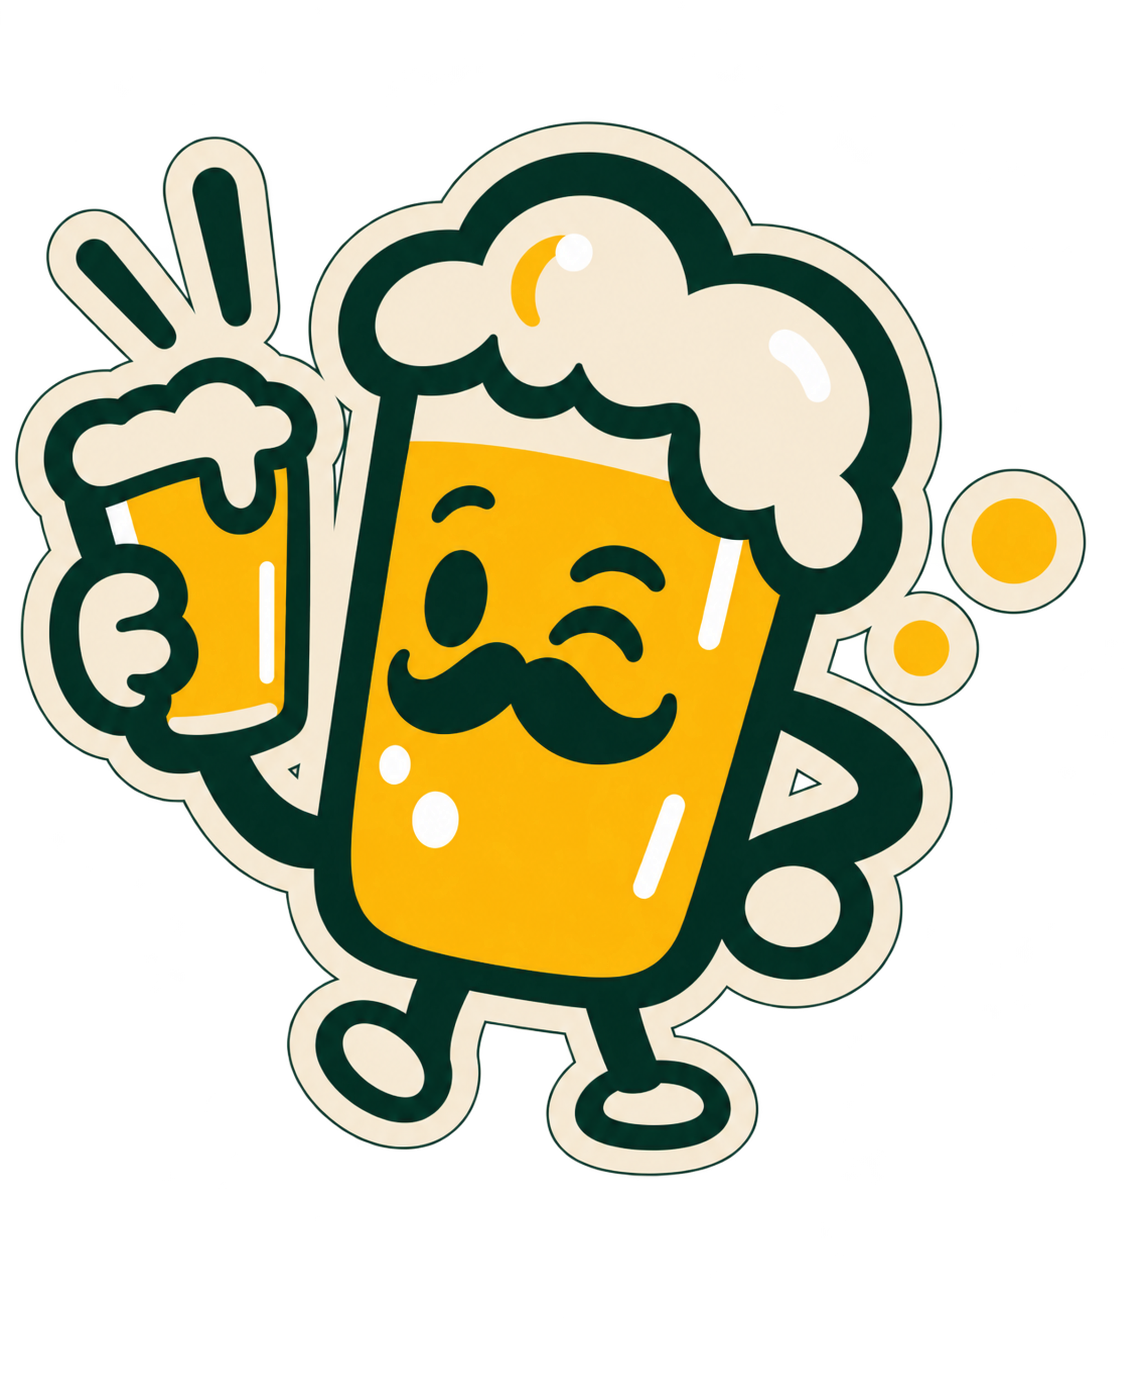
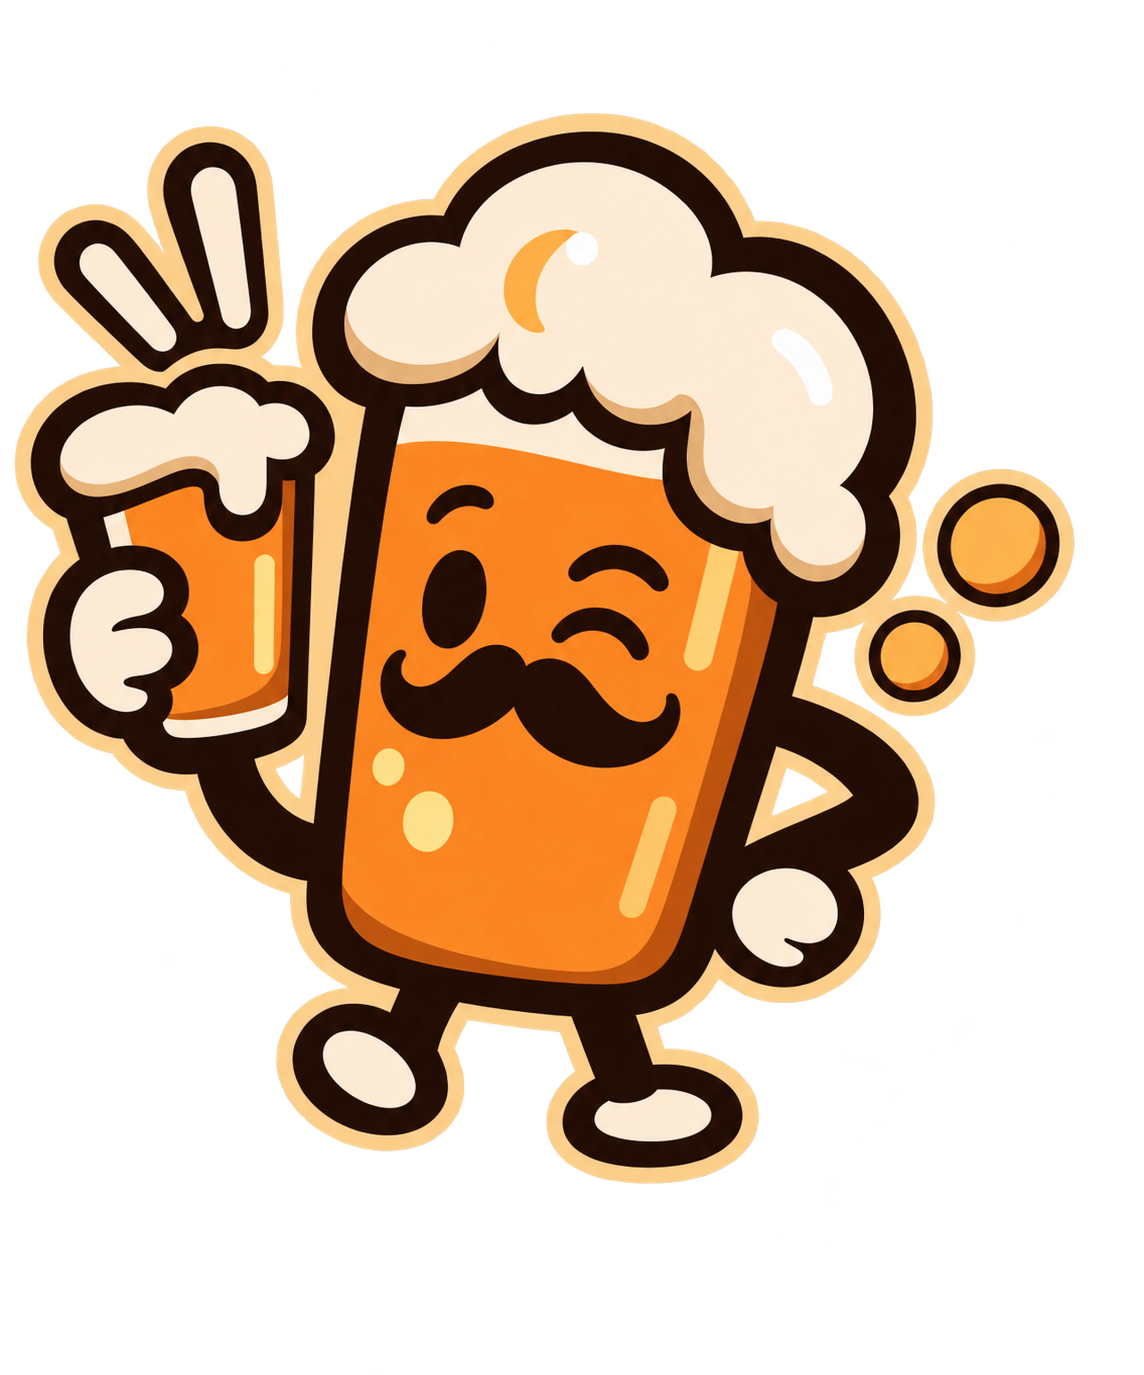
cor laranja

diff --git a/index.html b/index.html
@@ -35,7 +35,7 @@
         <div class="container">
             <a href="#" class="logo">
                 <div class="logo-icon" aria-label="Boteco da Vila">
-                    <img src="imagens/logonova.png" alt="Boteco da Vila" class="logo-image logo-full" width="1672" height="941"><img src="imagens/icon.png" alt="Boteco da Vila" class="logo-image logo-compact" width="1144" height="1375">
+                    <img src="imagens/logonova.png" alt="Boteco da Vila" class="logo-image logo-full" width="1671" height="941"><img src="imagens/icon.png" alt="Boteco da Vila" class="logo-image logo-compact" width="1144" height="1375">
                 </div>
                 <div class="logo-text">BOTECO DA VILA</div>
             </a>
@@ -315,7 +315,7 @@
                 <div class="footer-brand">
                     <a href="#" class="logo">
                         <div class="logo-icon" aria-label="Boteco da Vila">
-                            <img src="imagens/logonova.png" alt="Boteco da Vila" class="logo-image logo-full" width="1672" height="941"><img src="imagens/icon.png" alt="Boteco da Vila" class="logo-image logo-compact" width="1144" height="1375">
+                            <img src="imagens/logonova.png" alt="Boteco da Vila" class="logo-image logo-full" width="1671" height="941"><img src="imagens/icon.png" alt="Boteco da Vila" class="logo-image logo-compact" width="1144" height="1375">
                         </div>
                         <div class="logo-text">BOTECO DA VILA</div>
                     </a>
